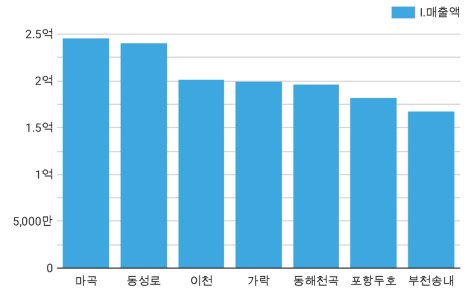
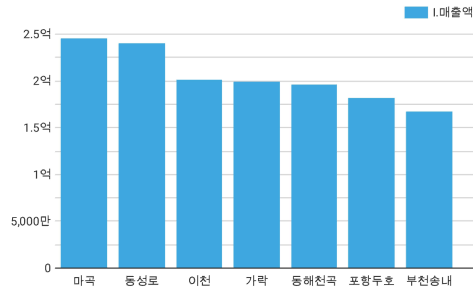
수정

diff --git a/css/layout.css b/css/layout.css
@@ -160,7 +160,7 @@
 .cont_wrap.lnb_none > .sec_scroll > .sec_wrap > .right{margin-left:20px;width:calc(35% - 20px)}
 .cont_wrap.lnb_none > .sec_scroll > .sec_wrap > .left .cont_box.left{width:65%}
 .cont_wrap.lnb_none > .sec_scroll > .sec_wrap > .left .cont_box.right{width:calc(35% - 25px);position:relative;}
-.cont_box.col3,.cont_box.col3:nth-child(2){width:calc(33.5% - 25px)}
+.cont_box.col3,.cont_box.col3:nth-child(2){width:calc(33.333% - 25px)}
 .sec_wrap.col60_40{padding:0;height:100%;width:100%;}
 .sec_wrap.col60_40 .left{width:25%;flex:1 1 auto;}
 .sec_wrap.col60_40 .right{margin-left:15px;width:calc(75% - 15px);flex:1 1 auto;}
@@ -270,6 +270,7 @@
 .tbl01 > table {border-top:1px solid #bcbec1;background:#fff}
 .tbl_scroll table {border-top:0;}
 .tbl01 > table > thead{position:sticky;top:0px;}
+.tbl01.noScroll > table > thead{position:relative;}
 .tbl01 > table > thead:after{content:'';position:absolute;bottom:0;width:100%;border-top:1px solid #bcbec1;}
 .row2 > table > thead tr:nth-child(2) th{position:relative;}
 .row2 > table > thead tr:nth-child(2) th:after{content:'';position:absolute;top:-1px;left:0;width:100%;border-top:1px solid #bcbec1;}
@@ -289,6 +290,7 @@
 .tbl01 > table > tfoot{position:sticky;bottom:0px;}
 .tbl01 > table > tfoot:before{content:'';position:absolute;top:-1px;width:100%;border-top:1px solid #bcbec1;}
 .tbl01 > table > tfoot:after{content:'';position:absolute;bottom:0;width:100%;border-bottom:1px solid #bcbec1;}
+.tbl01.noScroll > table > tfoot{position:relative;}
 .tbl01.noScroll > table > tfoot:before{content:'';position:absolute;top:0;width:100%;border-top:0;}
 .tbl01 > table > tfoot > tr > *,
 .tbl01 > table > tbody > tr > * {padding:3px 10px;height:42px;color:#333;line-height:16px;font-size:12px;border-bottom:1px solid #bcbec1;overflow:hidden;text-overflow:ellipsis;white-space:nowrap;}

diff --git a/html/customer_dashboard04.html b/html/customer_dashboard04.html
@@ -175,7 +175,7 @@
 									<h3>매출액 순위</h3>
 									<figure class="highcharts-figure2 mt15">
 										<!-- 차트 영역 -->
-										<div>
+										<div style="width:100%">
 											<!-- 임시 차트 이미지 -->
 											<img src="../img/img_sales01.png">
 										</div>
@@ -233,7 +233,7 @@
 										</table>
 									</div>
 									<!-- paging -->
-									<div class="paging">
+									<div class="paging small">
 										<a href="#none" class="btn_pg_first disabled">첫번째 페이지</a>
 										<a href="#none" class="btn_pg_prev disabled">이전 페이지</a>
 										<strong title="현재 페이지">1</strong>
@@ -249,7 +249,7 @@
 									<h3>영업이익별 순위</h3>
 									<figure class="highcharts-figure2 mt15">
 										<!-- 차트 영역 -->
-										<div>
+										<div style="width:100%">
 											<!-- 임시 차트 이미지 -->
 											<img src="../img/img_sales02.png">
 										</div>
@@ -323,13 +323,13 @@
 									<h3>권역별 순위</h3>
 									<figure class="highcharts-figure2 mt15">
 										<!-- 차트 영역 -->
-										<div>
+										<div style="width:100%">
 											<!-- 임시 차트 이미지 -->
-											<img src="../img/img_sales03.png" style="width:100%;height:305px;">
+											<img src="../img/img_sales03.png" style="width:100%">
 										</div>
 									</figure>
 									<!-- 테이블 -->
-									<div class="tbl01 col noScroll mt20">
+									<div class="tbl01 col noScroll">
 										<table>
 											<caption>표 캡션</caption>
 											<colgroup>
